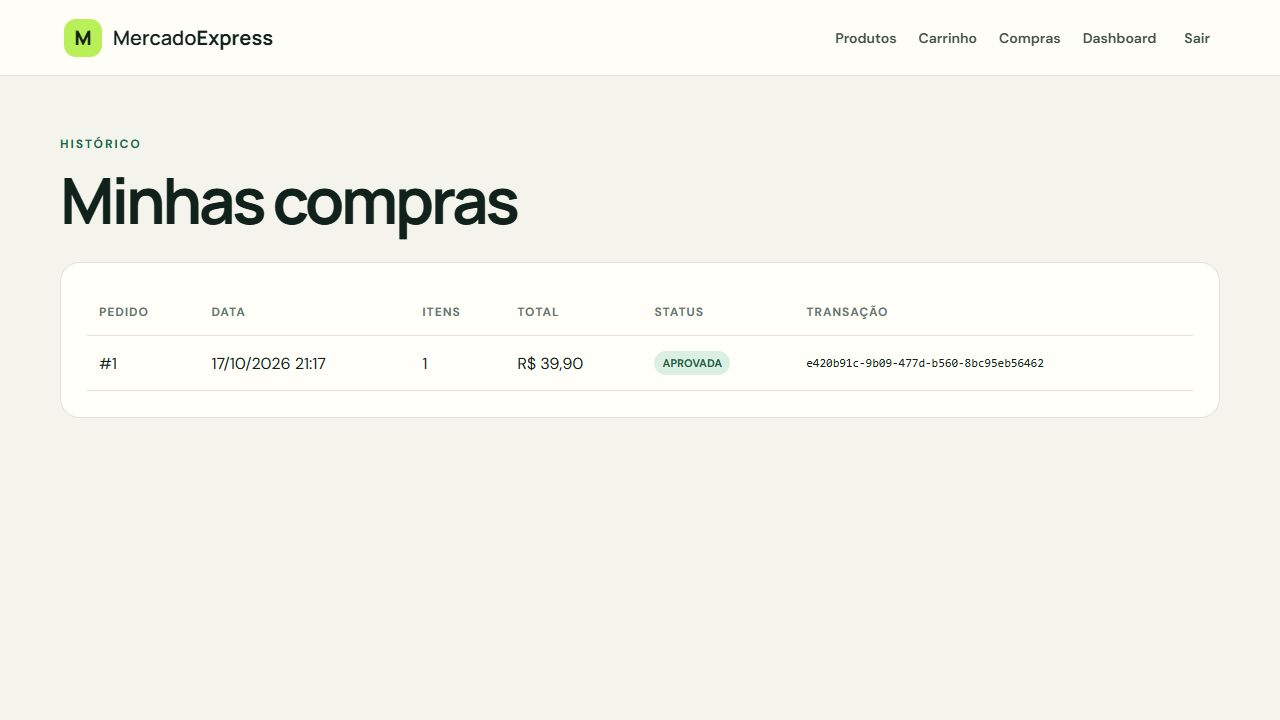
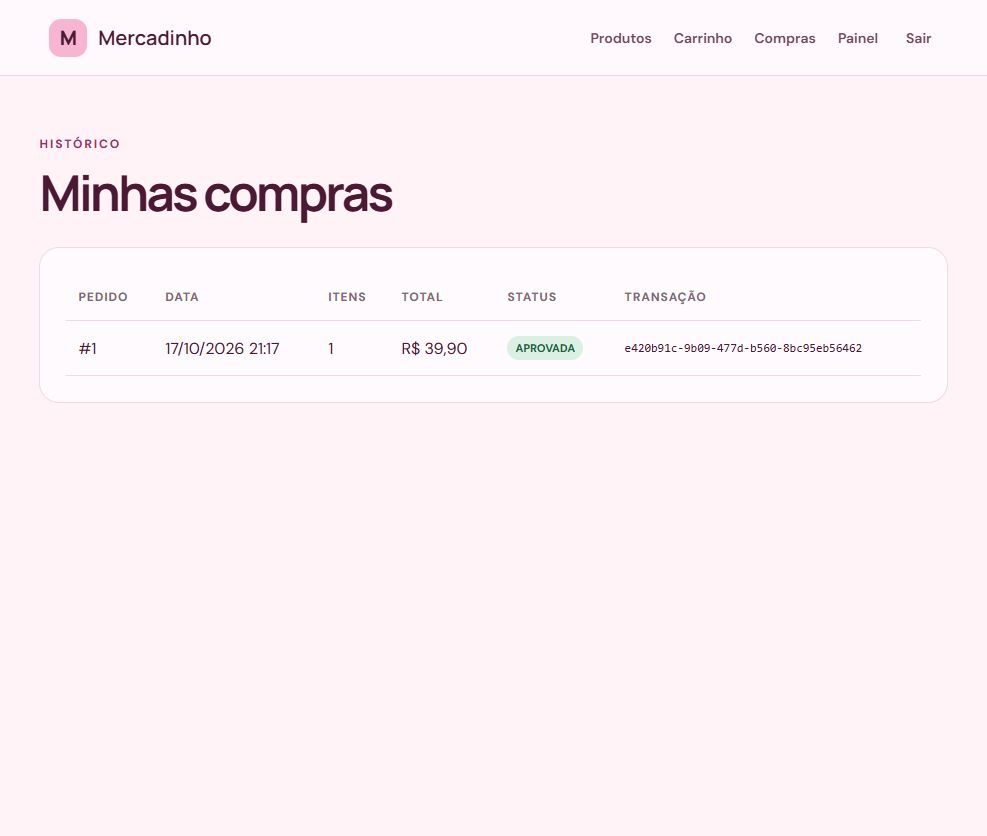
Atualiza prints rosas e testa telas do Mercadinho

diff --git a/src/test/java/br/com/mercadoexpress/mercadoexpress/TelasTests.java b/src/test/java/br/com/mercadoexpress/mercadoexpress/TelasTests.java
@@ -1,0 +1,63 @@
+package br.com.mercadoexpress.mercadoexpress;
+
+import org.junit.jupiter.api.Test;
+import org.springframework.beans.factory.annotation.Autowired;
+import org.springframework.boot.test.context.SpringBootTest;
+import org.springframework.core.env.Environment;
+import org.springframework.test.context.ActiveProfiles;
+
+import java.net.URI;
+import java.net.http.HttpClient;
+import java.net.http.HttpRequest;
+import java.net.http.HttpResponse;
+import java.nio.charset.StandardCharsets;
+import java.util.Base64;
+import java.util.List;
+
+import static org.assertj.core.api.Assertions.assertThat;
+
+@SpringBootTest(webEnvironment = SpringBootTest.WebEnvironment.RANDOM_PORT,
+        properties = "management.health.mail.enabled=false")
+@ActiveProfiles("test")
+class TelasTests {
+    @Autowired Environment environment;
+    private final HttpClient client = HttpClient.newBuilder()
+            .version(HttpClient.Version.HTTP_1_1).build();
+
+    private HttpResponse<String> get(String path, String credentials) throws Exception {
+        URI uri = URI.create("http://localhost:" + environment.getProperty("local.server.port") + path);
+        HttpRequest.Builder request = HttpRequest.newBuilder(uri).GET();
+        if (credentials != null) {
+            request.header("Authorization", "Basic " + Base64.getEncoder()
+                    .encodeToString(credentials.getBytes(StandardCharsets.UTF_8)));
+        }
+        return client.send(request.build(), HttpResponse.BodyHandlers.ofString());
+    }
+
+    @Test
+    void paginasPublicasUsamNovoNomeEEstilo() throws Exception {
+        for (String path : List.of("/", "/login", "/register")) {
+            HttpResponse<String> response = get(path, null);
+            assertThat(response.statusCode()).as(path).isEqualTo(200);
+            assertThat(response.body()).contains("Mercadinho", "/css/estilo.css")
+                    .doesNotContain("Mercado Express", "/css/style.css");
+        }
+        assertThat(get("/css/estilo.css", null).body()).contains("#fff3f7", "#a52b66");
+    }
+
+    @Test
+    void gerenteAbreTodasAsTelasRenomeadas() throws Exception {
+        for (String path : List.of("/products", "/products/new", "/products/1/edit",
+                "/cart", "/purchases", "/admin/dashboard")) {
+            HttpResponse<String> response = get(path, "gerente@mercadoexpress.com:Gerente@123");
+            assertThat(response.statusCode()).as(path).isEqualTo(200);
+            assertThat(response.body()).contains("Mercadinho", "/css/estilo.css");
+        }
+    }
+
+    @Test
+    void clienteContinuaSemAcessoAoPainel() throws Exception {
+        assertThat(get("/admin/dashboard", "cliente@mercadoexpress.com:Cliente@123").statusCode())
+                .isEqualTo(403);
+    }
+}

diff --git a/README.md b/README.md
@@ -6,7 +6,7 @@
 
 **Deploy:** https://mercado-express-cp5-rm563549.onrender.com
 
-Aplicação full stack em Java 21 que reúne as duas partes do Checkpoint 5: um e-commerce MVC protegido com Spring Security e um fluxo de pagamentos assíncrono com RabbitMQ, API do Banco Tranquilo, e-mail e dashboard gerencial.
+Projeto das partes 1 e 2 da CP5 de Java Advanced. É uma loja online com cadastro, login, produtos, carrinho, pagamento simulado, e-mail e painel de vendas.
 
 O site agora se chama **Mercadinho** e usa uma paleta rosa. Os arquivos das telas usam nomes simples: `cadastro.html`, `carrinho.html`, `compras.html`, `produtos/lista.html`, `produtos/formulario.html`, `admin/painel.html` e `css/estilo.css`. Scripts: `iniciar-local.ps1`, `iniciar-docker.ps1`, `iniciar-nuvem.ps1`, `preparar-ambiente.ps1`, `gerar-zip.ps1` e `enviar-github.ps1`. Os pacotes Java, as contas de demonstracao, o endereco do Render e os identificadores de banco/mensageria foram preservados para manter a compatibilidade.
 
@@ -22,14 +22,14 @@ Print fornecido durante a configuracao da instancia: as filas `mercado.pagamento
 
 Capturas de 17/10/2026. Login de gerente e compra ficticia #1 aprovados no Render com PostgreSQL e RabbitMQ externos; transacao `e420b91c-9b09-477d-b560-8bc95eb56462`. O dashboard mostra zero e-mails enviados porque o SMTP externo ainda nao foi configurado.
 
-![Landing page](docs/landing.jpg)
+![Inicio do Mercadinho](docs/inicio.jpg)
 ![Login personalizado](docs/login.jpg)
 ![Cadastro](docs/cadastro.jpg)
 ![Catalogo e controles CRUD do gerente](docs/catalogo.jpg)
 ![Formulario de produto](docs/produto-formulario.jpg)
-![Carrinho com cartao ficticio](docs/carrinho.jpg)
+![Carrinho e formulario de pagamento](docs/carrinho.jpg)
 ![Compra aprovada com identificador da transacao](docs/compras.jpg)
-![Dashboard gerencial](docs/dashboard.jpg)
+![Painel de vendas](docs/painel.jpg)
 
 ## Funcionalidades entregues
 
@@ -224,6 +224,8 @@ $env:JAVA_HOME='C:\Program Files\Java\jdk-21'
 ```
 
 O teste de contexto usa o perfil `test` e banco H2 isolado, portanto não depende do PostgreSQL nem do RabbitMQ.
+
+`TelasTests` verifica as paginas publicas, a abertura das telas renomeadas pelo gerente, o novo nome e CSS rosa, e o bloqueio do painel para clientes. Total atual: sete testes, sem falhas.
 
 Ha tambem tres testes de integracao de checkout: aprovacao e e-mail persistidos apos commit, recusa com devolucao de estoque, e rejeicao de estoque insuficiente sem chamar o banco.
 

diff --git a/docs/testes.md b/docs/testes.md
@@ -43,6 +43,12 @@ Captura RabbitMQ fornecida pelo aluno. Prints reais do deploy foram adicionados 
 
 ## Limites e pendencias externas
 
+### Atualizacao para Mercadinho
+
+Nome do site, textos e produtos simplificados; tema rosa; nomes de templates, scripts e documentos em portugues. Identificadores internos preservados. Sete testes Maven passaram, incluindo tres novos testes HTTP das telas renomeadas e da restricao do painel para clientes.
+
+Deploy `c6b0712` confirmado no Render em 17/10/2026. Conferidos no navegador: inicio, cadastro, login do gerente, catalogo com novos nomes, formulario de produto, carrinho, historico e painel. Compra #1 e indicadores anteriores preservados. Capturas atualizadas no README com tema rosa.
+
 - Banco Tranquilo e um simulador educacional, nao uma conexao bancaria real.
 - Mailpit nao encaminha mensagens para caixas externas. Para e-mail externo no deploy, informe um SMTP real em `MAIL_*`.
 - O Docker Compose foi preparado, mas o motor Docker desta maquina nao iniciou; a validacao completa usou os binarios portateis.
